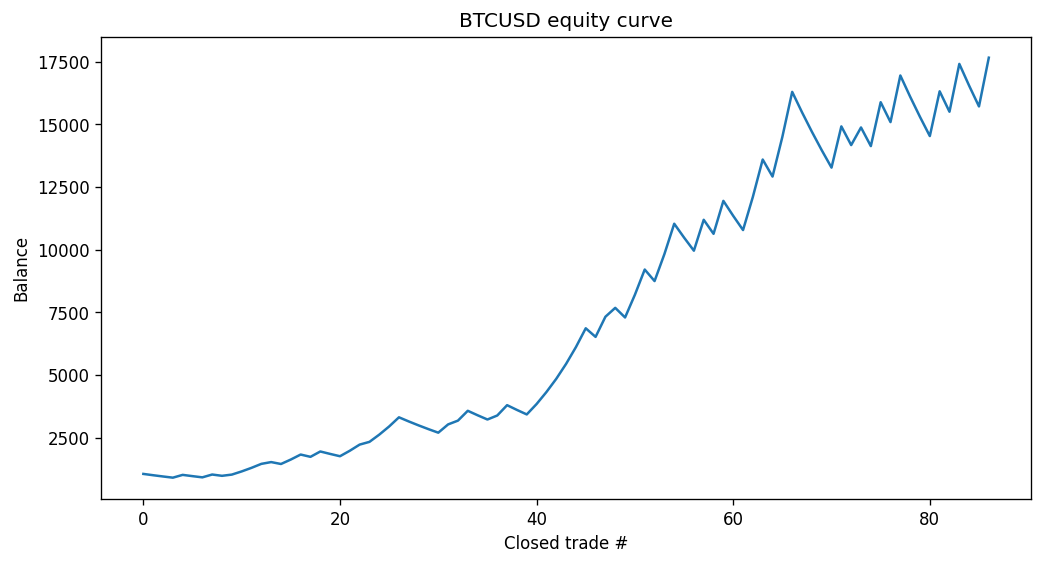
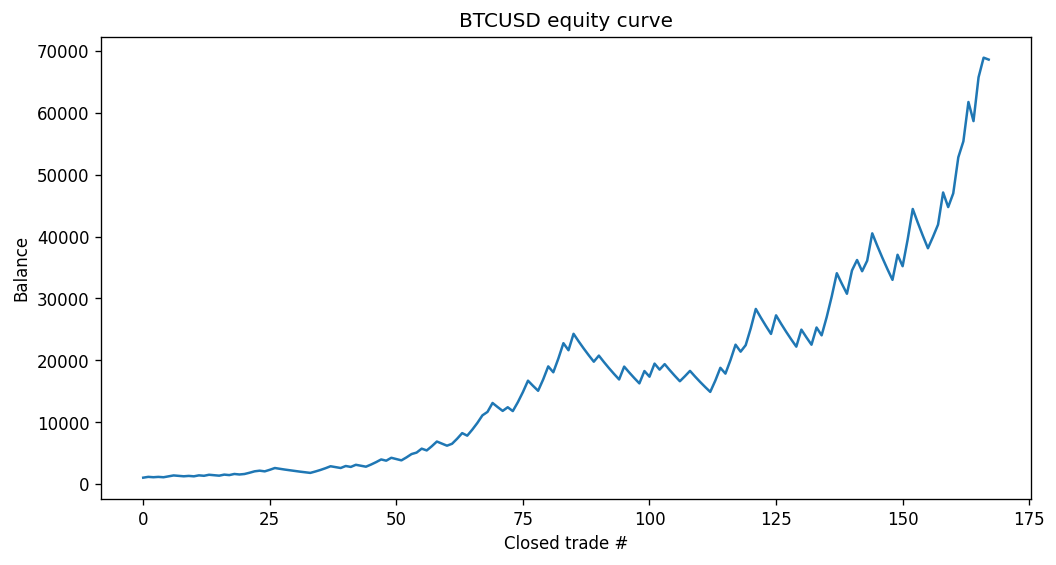
Add files via upload

diff --git a/run_backtest.py b/run_backtest.py
@@ -35,7 +35,8 @@ def main():
     print(f"Loaded {len(df_ltf)} LTF bars ({df_ltf['time'].min()} -> {df_ltf['time'].max()})")
     print(f"Loaded {len(df_htf)} HTF bars ({df_htf['time'].min()} -> {df_htf['time'].max()})")
 
-    bt = Backtester(args.symbol, config.STRATEGY, config.BACKTEST, pip_size=sym_cfg.pip_size)
+    strategy_params = config.get_strategy_params(args.symbol)
+    bt = Backtester(args.symbol, strategy_params, config.BACKTEST, pip_size=sym_cfg.pip_size)
     result = bt.run(df_ltf, df_htf, max_open_trades=args.max_open_trades)
 
     print_summary(result, symbol=args.symbol)